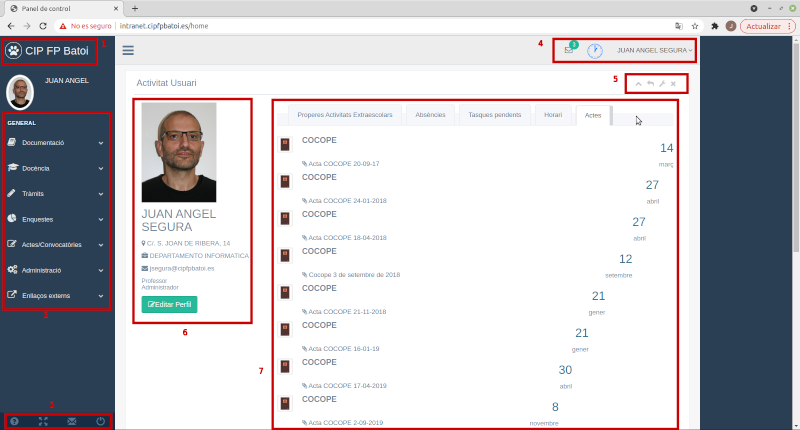
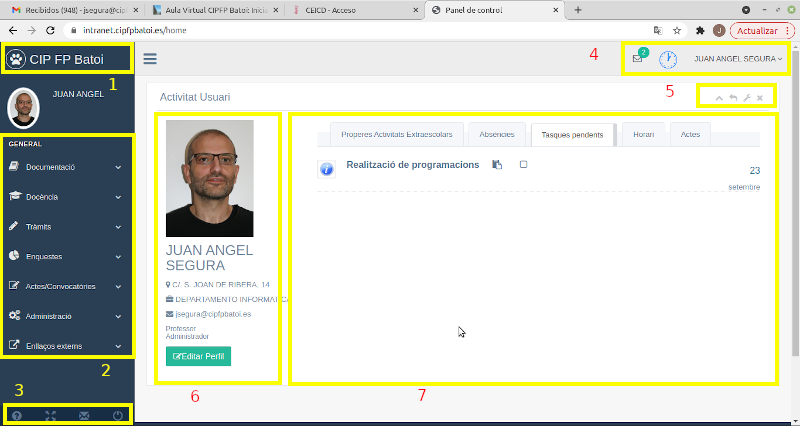
[MOD] retoques

diff --git a/docs/faqs.md b/docs/faqs.md
@@ -2,6 +2,7 @@
 Ací trobem informació de còm fer coses concretes com:
 * Professor
   * [Fitxar](#com-fitxar-lentrada-o-eixida-del-centre)
+  * [Com canviar la meua foto](#Com-canviar-la-meua-foto)
   * [Fitxar una guàrdia](#com-fitxar-una-gu%C3%A0rdia)
   * [Localitzar a algú](#com-localitzar-a-un-professor-o-a-direcci%C3%B3)
   * [Contactar amb algú](#com-contactar-amb-un-professor)
@@ -36,6 +37,8 @@ Al arribar al Centre hem de fitxar a la Intranet. Podem fer-ho de 3 formes difer
 
 Per a fitxar la nostra eixida del Centre podem fer-ho exactament igual (des del mòbil, l'ordinador de Consergeria o la Intranet). Per a fer-ho des de la Intranet només hem de [polsar el rellotge blau](./manual-profe.md#control-de-presència) que hi ha en la part superior dreta
 
+## Com canviar la meua foto
+Des de la pantalla principal o des del meu nom (part superior dreta) trie **_Editar perfil_**. On diu _Enlace foto_ polse el botó d'_Explorar_ i trie el fitxer amb la meua foto. Intenta que la foto no siga masa pesada (pocs KB).
 
 ## Com Fitxar una guàrdia
 Cada vegada que fem una guàrdia hem de fitxar que estem fent-la. Només es pot fer durant l'hora de la guàrdia i des de l'ordinador de la Biblioteca (si és guàrdia de biblioteca) o des de un dels ordinadors de la Sala de profes (si és guàrdia normal).

diff --git a/docs/manual-profe.md b/docs/manual-profe.md
@@ -80,14 +80,13 @@ La pàgina d'inici te vàries parts:
     3. Canviar l'idioma
     4. **Mostrar l'ajuda** de la pàgina que estem veient (icona de l'interrogant, només en les pàgines que tenen ajuda)
     5. Tancar la part central de la pàgina
-
+6. Dades de l'usuari amb un botó pr a **editar el perfil**
 7. Pestanyes: resum d'algunes informacions útils de la intranet com:
     1. Properes activitats extraescolars: les prperes activitats que qualsevol departament va a realitzar pròximament
     2. Absències: professors que no van a estar en el Centre per algun motiu (comissió de servei, activitat extraescolar, malaltia, ...)
     3. Tasques pendents de fer en la intranet (lliurament de la programació, seguiments, avaluacions, ..)
     4. Horari: el nostre horari
     5. Actes: les actes, que podem trobar també en el menú [Documentació → Actes](#actes)
-
 
 ### Control de presència
 Cada vegada que entrem o eixim del Centre hem de fitxar. Podem fer-ho des del nostre mòbil, des de l'ordinador que hi ha a l'entrada en Consergeria o des de la intranet. 
